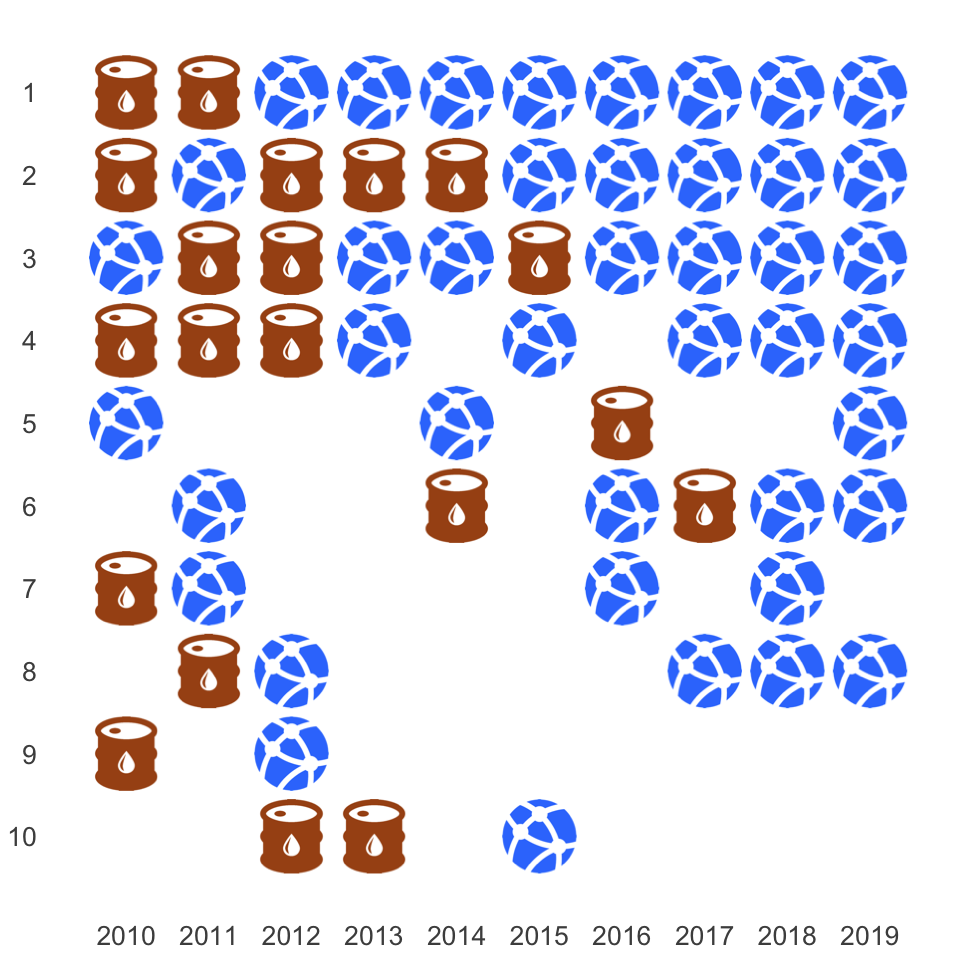
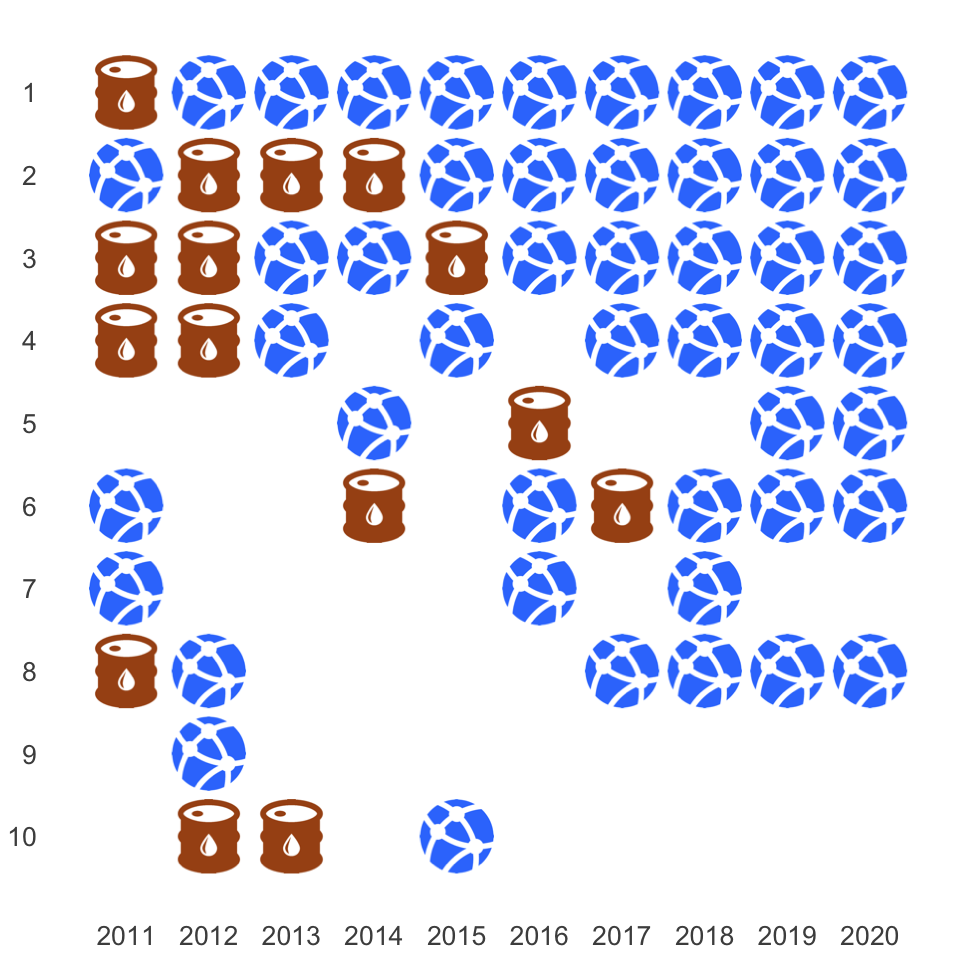
Fast forward to 2011-2020

diff --git a/README.md b/README.md
@@ -1,7 +1,7 @@
 Digitalization - Pipelines to Platforms
 ================
 
-# Rise of Digital Platforms Over 2010 to 2019
+# Rise of Digital Platforms Over 2011 to 2020
 
 Based on data in [List of public corporations by market capitalization @
 Wikipedia](https://en.wikipedia.org/wiki/List_of_public_corporations_by_market_capitalization)
@@ -13,7 +13,7 @@ mcs = read.csv("marketcapitalizations.csv")
 ## Oil Barrons Stepped Down - Silicon Kids Moved Up
 
 |                   Companies                    |                   Nations                    |                   Industries                    |
-| :--------------------------------------------: | :------------------------------------------: | :---------------------------------------------: |
+|:----------------------------------------------:|:--------------------------------------------:|:-----------------------------------------------:|
 | ![](./README_files/figure-gfm/companies-1.png) | ![](./README_files/figure-gfm/nations-1.png) | ![](./README_files/figure-gfm/industries-1.png) |
 
 Icons made by [Freepik](https://www.flaticon.com/authors/freepik)
@@ -40,8 +40,8 @@ tenyearsafter<-function(years, ranks, names, folder) {
     ) +
     
     scale_x_continuous(
-      limits = c(2009.5,2019.5),
-      breaks = seq(2010,2019,1)
+      limits = c(2010.5,2020.5),
+      breaks = seq(2011,2020,1)
     ) +
     scale_y_continuous(
       limits = c(0.5,10.5),
@@ -109,12 +109,12 @@ Zeitung](https://www.faz.net/aktuell/finanzen/aktien/erdoel-gigant-saudi-aramco-
 With the Google logo (instead of Alphabet) the GAFA effect becomes
 visible immediately.
 
-|   |    |          |
-| -: | :-: | :------- |
-| G | \= | Google   |
-| A | \= | Apple    |
-| F | \= | Facebook |
-| A | \= | Amazon   |
+|     |     |          |
+|----:|:---:|:---------|
+|   G |  =  | Google   |
+|   A |  =  | Apple    |
+|   F |  =  | Facebook |
+|   A |  =  | Amazon   |
 
 ``` r
 mcsgafa = mcs
@@ -146,13 +146,13 @@ tenyearsafter(mcsgafa$Year,
 
 The GAFAM effect with the rise of Microsoft impresses even more.
 
-|   |    |           |
-| -: | :-: | :-------- |
-| G | \= | Google    |
-| A | \= | Apple     |
-| F | \= | Facebook  |
-| A | \= | Amazon    |
-| M | \= | Microsoft |
+|     |     |           |
+|----:|:---:|:----------|
+|   G |  =  | Google    |
+|   A |  =  | Apple     |
+|   F |  =  | Facebook  |
+|   A |  =  | Amazon    |
+|   M |  =  | Microsoft |
 
 ``` r
 mcsgafam = mcs
